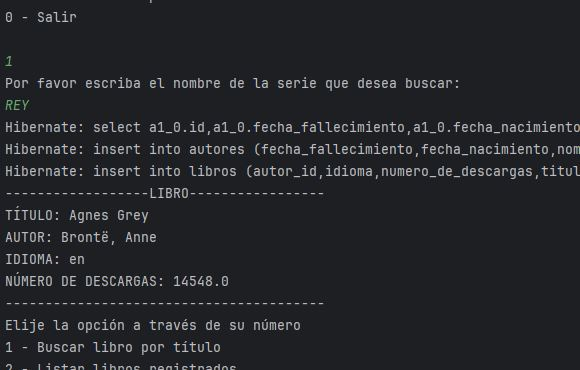
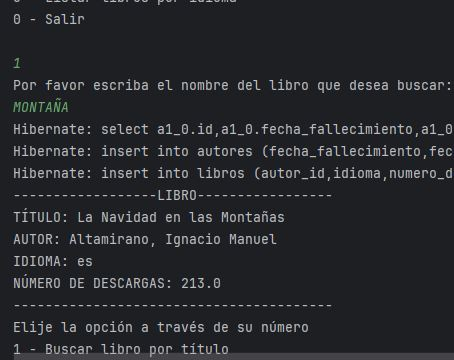
Corrección imagenes y texto interacción con usuario

diff --git a/src/main/java/com/aluraChallenge/apiLibros/principal/Principal.java b/src/main/java/com/aluraChallenge/apiLibros/principal/Principal.java
@@ -194,7 +194,7 @@ public Principal(LibroRepository libroRepository, AutorRepository autorRepositor
     }
 
     private DatosLibro getDatosLibro() {
-        System.out.println("Por favor escriba el nombre de la serie que desea buscar:");
+        System.out.println("Por favor escriba el nombre del libro que desea buscar:");
 
         var nombreLibro = teclado.nextLine();
         var json = consumoApi.obtenerDatos(URL_BASE + "?search="+ nombreLibro.replace(" ", "+"));
